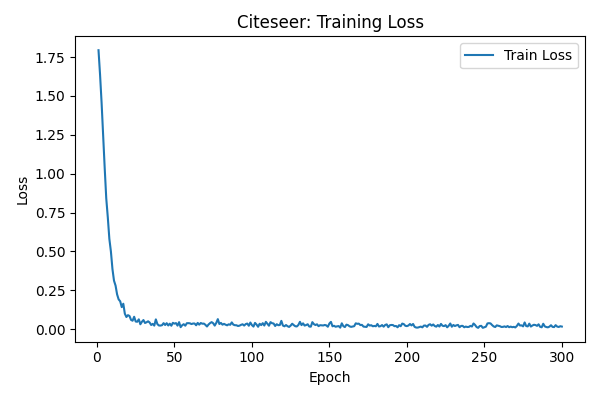
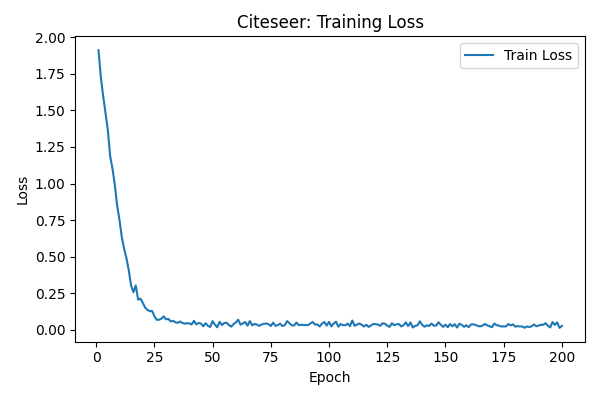
changes

diff --git a/local_code/stage_5_code/GCN.py b/local_code/stage_5_code/GCN.py
@@ -5,6 +5,9 @@ import torch.nn as nn
 import torch.nn.functional as F
 import scipy.sparse as sp
 import numpy as np
+import math
+from torch.nn.parameter import Parameter
+from torch.nn.modules.module import Module
 
 
 def normalize_adjacency(adj_matrix):
@@ -52,60 +55,39 @@ def normalize_adjacency(adj_matrix):
     return torch.sparse_coo_tensor(indices, values, shape).coalesce()
 
 
-class GCNLayer(nn.Module):
+class GraphConvolution(Module):
     """
-    A single Graph Convolutional Network (GCN) layer.
-    Applies a linear transformation followed by propagation through a normalized adjacency.
-
-    Z = A_norm · (X W) + b
-
-    Args:
-        in_features (int):  Number of input feature dimensions per node.
-        out_features (int): Number of output feature dimensions per node.
-        bias (bool):        Whether to include a learnable bias term. Default: True.
+    Simple GCN layer, similar to https://arxiv.org/abs/1609.02907
     """
-
-    def __init__(self, in_features: int, out_features: int, bias: bool = True):
-        super(GCNLayer, self).__init__()
-        # Weight matrix W ∈ ℝ^{in_features × out_features}
-        self.weight = nn.Parameter(torch.Tensor(in_features, out_features))
+    def __init__(self, in_features, out_features, bias=True):
+        super(GraphConvolution, self).__init__()
+        self.in_features = in_features
+        self.out_features = out_features
+        self.weight = Parameter(torch.FloatTensor(in_features, out_features))
         if bias:
-            self.bias = nn.Parameter(torch.Tensor(out_features))
+            self.bias = Parameter(torch.FloatTensor(out_features))
         else:
             self.register_parameter('bias', None)
         self.reset_parameters()
 
     def reset_parameters(self):
-        """
-        Initialize weights with Xavier/Glorot uniform and bias to zeros.
-        """
-        nn.init.xavier_uniform_(self.weight)
+        stdv = 1. / math.sqrt(self.weight.size(1))
+        self.weight.data.uniform_(-stdv, stdv)
         if self.bias is not None:
-            nn.init.zeros_(self.bias)
+            self.bias.data.uniform_(-stdv, stdv)
 
-    def forward(self, X: torch.FloatTensor, A_norm: torch.sparse.FloatTensor) -> torch.FloatTensor:
-        """
-        Forward pass of a single GCN layer.
-
-        Args:
-            X (torch.FloatTensor):      Node feature matrix, shape (N, in_features).
-            A_norm (torch.sparse.FloatTensor): Precomputed normalized adjacency (Â), shape (N, N).
-
-        Returns:
-            out (torch.FloatTensor):    Transformed node features, shape (N, out_features).
-        """
-        # Linear transformation: support = X · W  → shape: (N, out_features)
-        support = torch.mm(X, self.weight)
-
-        # Propagate through normalized adjacency: out = Â · support
-        # Using sparse-dense multiplication: (N×N) × (N×out_features) → (N×out_features)
-        out = torch.spmm(A_norm, support)
-
-        # Add bias if it exists
+    def forward(self, input, adj):
+        support = torch.mm(input, self.weight)
+        output = torch.spmm(adj, support)
         if self.bias is not None:
-            out = out + self.bias
+            return output + self.bias
+        else:
+            return output
 
-        return out
+    def __repr__(self):
+        return self.__class__.__name__ + ' (' \
+               + str(self.in_features) + ' -> ' \
+               + str(self.out_features) + ')'
 
 
 class GCN(nn.Module):
@@ -113,7 +95,7 @@ class GCN(nn.Module):
     Two-layer Graph Convolutional Network for node classification.
 
     Architecture:
-      Input → GCNLayer(in_dim → hidden_dim) → ReLU → Dropout → GCNLayer(hidden_dim → out_dim)
+      Input → GraphConvolution(in_dim → hidden_dim) → ReLU → Dropout → GraphConvolution(hidden_dim → out_dim)
 
     Args:
         in_dim (int):      Number of input features per node (D).
@@ -124,8 +106,8 @@ class GCN(nn.Module):
 
     def __init__(self, in_dim: int, hidden_dim: int, out_dim: int, dropout: float = 0.5):
         super(GCN, self).__init__()
-        self.conv1 = GCNLayer(in_dim, hidden_dim, bias=True)
-        self.conv2 = GCNLayer(hidden_dim, out_dim, bias=True)
+        self.conv1 = GraphConvolution(in_dim, hidden_dim, bias=True)
+        self.conv2 = GraphConvolution(hidden_dim, out_dim, bias=True)
         self.dropout = dropout
 
     def forward(self, X: torch.FloatTensor, A_norm: torch.sparse.FloatTensor) -> torch.FloatTensor:

diff --git a/script/stage_5_code/script_gcn_train.py b/script/stage_5_code/script_gcn_train.py
@@ -169,7 +169,7 @@ def train_and_evaluate(
     best_state = None
 
     # Early stopping criteria for PubMed (based on TEST accuracy)
-    pubmed_early_stop_threshold = 0.79
+    pubmed_early_stop_threshold = 1
     early_stopped = False
 
     for epoch in range(1, num_epochs + 1):
